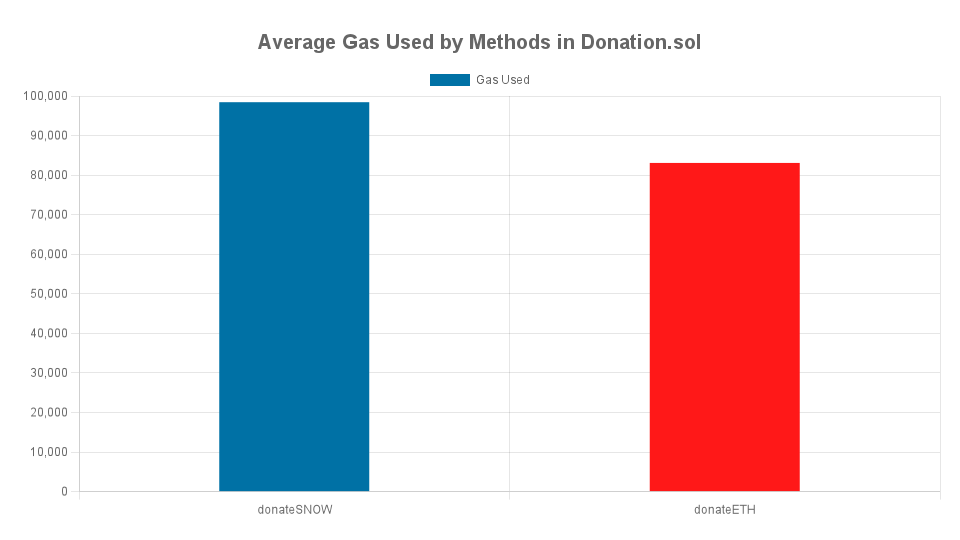
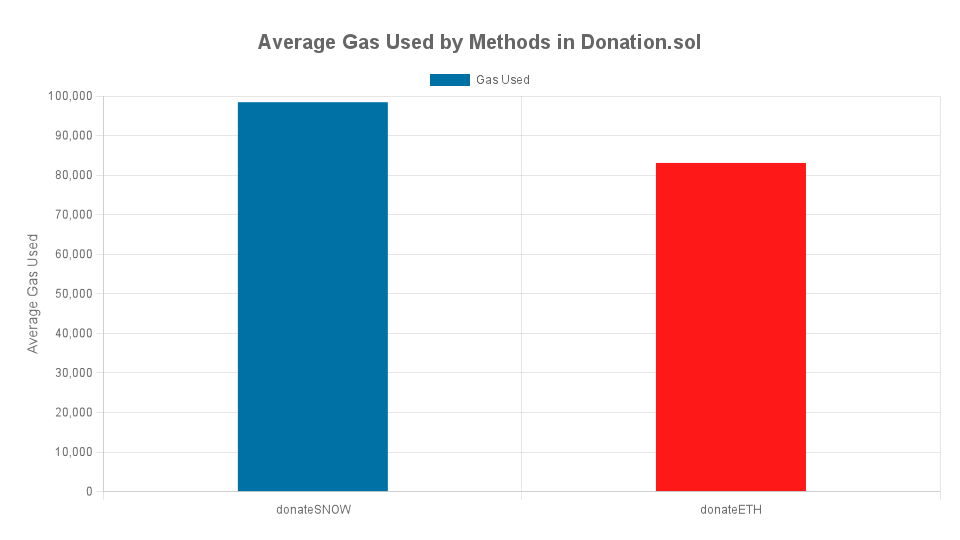
Dynamic gas analysis outputs

diff --git a/gas-output/plot-charts.js b/gas-output/plot-charts.js
@@ -1,51 +1,108 @@
 const chart = require("./render-chart");
-const { result } = require("./gas-report");
+const fs = require("fs");
+const path = require("path");
 
-const { methods, deployments } = result;
+let actualRes;
+let token;
+const tokens = ["ETH", "BNB", "MATIC"];
+const sliced = process.argv.slice(2);
+const inputIdx = sliced.indexOf("--token");
+const isCost = sliced.includes("--cost");
+if (inputIdx < 0 || !isCost) {
+  const { result } = require("./gas-report");
+  actualRes = result;
+} else {
+  token = sliced[inputIdx + 1];
+  if (token == "-a") {
+    actualRes = tokens.map((t) => {
+      return JSON.parse(
+        fs.readFileSync(
+          path.resolve(__dirname, `formatted-gas-output-token-${t}.json`),
+          "utf8"
+        )
+      );
+    });
+  } else {
+    actualRes = [
+      JSON.parse(
+        fs.readFileSync(
+          path.resolve(__dirname, `formatted-gas-output-token-${token}.json`),
+          "utf8"
+        )
+      ),
+    ];
+  }
+}
 
-const formatDataset = (contract, dataObject, isDeployment) => {
-  const title =
-    !contract && isDeployment
-      ? "Gas Used for Smart Contract Deployments"
-      : `Average Gas Used by Methods in ${contract}.sol`;
-  const labels = dataObject.map((obj) =>
-    isDeployment ? obj.name : obj.method
-  );
-  const data = dataObject.map((obj) => obj.Avg);
-  return { title, labels, data };
-};
-
-const colorMaps = {
-  2: ["#0071a5", "#ff1818"],
-  3: ["#05469f", "#df3381", "#ff9400"],
-  6: ["#003f5c", "#444e86", "#955196", "#dd5182", "#ff6e54", "#ffa600"],
-};
-
-const datasetGen = (data) => {
-  return [
-    {
-      label: "Gas Used",
-      backgroundColor: colorMaps[data.length],
-      borderWidth: 0,
-      data: data,
+async function plot(res) {
+  const { config, methods, deployments } = res;
+  const scales = {
+    y: {
+      position: "left",
+      ticks: {
+        beginAtZero: true,
+      },
+      title: {
+        display: true,
+        text: isCost ? "Average Transaction Cost (USD)" : "Average Gas Used",
+        font: {
+          size: 14,
+        },
+      },
     },
-  ];
-};
+  };
+  const formatDataset = (contract, dataObject, isDeployment) => {
+    const title =
+      !contract && isDeployment
+        ? isCost
+          ? `Cost for Smart Contract Deployment, ${config.token} Price: ${config.ethPrice}, Gas Price: ${config.gasPrice}`
+          : "Gas Used for Smart Contract Deployments"
+        : isCost
+        ? `Average Cost Per Method Transaction in ${contract}.sol, Token: ${config.token}`
+        : `Average Gas Used by Methods in ${contract}.sol`;
+    const labels = dataObject.map((obj) =>
+      isDeployment ? obj.name : obj.method
+    );
+    const data = dataObject.map((obj) => (isCost ? obj.avgPrice : obj.Avg));
+    return { title, labels, data };
+  };
 
-const methodsConfigs = Object.entries(methods).map((obj) => {
-  const { title, labels, data } = formatDataset(obj[0], obj[1]);
-  return chart.configuration(title, labels, datasetGen(data));
-});
+  const colorMaps = {
+    2: ["#0071a5", "#ff1818"],
+    3: ["#05469f", "#df3381", "#ff9400"],
+    6: ["#003f5c", "#444e86", "#955196", "#dd5182", "#ff6e54", "#ffa600"],
+  };
 
-const deploymentsConfig = (() => {
-  const { title, labels, data } = formatDataset(null, deployments, true);
-  return chart.configuration(title, labels, datasetGen(data));
-})();
+  const datasetGen = (data) => {
+    return [
+      {
+        label: isCost ? `Cost ${config.currency}` : "Gas Used",
+        backgroundColor: colorMaps[data.length],
+        borderWidth: 0,
+        data: data,
+      },
+    ];
+  };
 
-const allConfigs = [deploymentsConfig, ...methodsConfigs];
+  const methodsConfigs = Object.entries(methods).map((obj) => {
+    const { title, labels, data } = formatDataset(obj[0], obj[1]);
+    return chart.configuration(title, labels, datasetGen(data), {
+      scales: scales,
+    });
+  });
 
-(async function () {
+  const deploymentsConfig = (() => {
+    const { title, labels, data } = formatDataset(null, deployments, true);
+    return chart.configuration(title, labels, datasetGen(data), {
+      scales: scales,
+    });
+  })();
+
+  const allConfigs = [deploymentsConfig, ...methodsConfigs];
+
   for (const config of allConfigs) {
     await chart.render(config);
   }
-})();
+}
+
+actualRes.map(plot);

diff --git a/gas-output/gas-report.js b/gas-output/gas-report.js
@@ -1,6 +1,8 @@
 const fs = require("fs");
 const path = require("path");
 
+const output = process.argv.includes("--output");
+
 const report = JSON.parse(
   fs.readFileSync(path.join(__dirname, "../gasReporterOutput.json"), "utf8")
 );
@@ -24,7 +26,15 @@ const calledMethods = Object.values(report.info.methods).filter(
 
 const gasPrice = result.config.gasPrice;
 const ethPrice = result.config.ethPrice;
-const pricePerEthToPerGwei = (price) => parseFloat(price / 1e9).toFixed(2);
+const pricePerEthToPerGwei = (price) => {
+  var res = 0;
+  var decimal = 2;
+  while (res == 0) {
+    res = parseFloat(price / 1e9).toFixed(decimal);
+    decimal++;
+  }
+  return res;
+};
 
 const deployments = report.info.deployments.map((deployment) => {
   return { name: deployment.name, gasData: deployment.gasData };
@@ -76,10 +86,14 @@ const groupedMethods = calculatedMethods.reduce((res, obj) => {
 result.methods = groupedMethods;
 result.deployments = calculatedDeployments;
 
-fs.writeFileSync(
-  path.join(__dirname, "./formatted-gas-output.json"),
-  JSON.stringify(result),
-  "utf8"
-);
-
+if (output) {
+  fs.writeFileSync(
+    path.join(
+      __dirname,
+      `./formatted-gas-output-token-${result.config.token}.json`
+    ),
+    JSON.stringify(result),
+    "utf8"
+  );
+}
 exports.result = result;

diff --git a/truffle-config.js b/truffle-config.js
@@ -1,5 +1,16 @@
 const path = require("path");
 require("dotenv").config();
+
+const tokenArgIdx = process.argv.indexOf("--token");
+const token = tokenArgIdx > 0 ? process.argv[tokenArgIdx + 1] : "ETH";
+const priceApi = {
+  ETH: "https://api.etherscan.io/api?module=proxy&action=eth_gasPrice",
+  BNB: "https://api.bscscan.com/api?module=proxy&action=eth_gasPrice",
+  MATIC: "https://api.polygonscan.com/api?module=proxy&action=eth_gasPrice",
+  AVAX: "https://api.snowtrace.io/api?module=proxy&action=eth_gasPrice",
+  HT: "https://api.hecoinfo.com/api?module=proxy&action=eth_gasPrice",
+  MOVR: "https://api-moonriver.moonscan.io/api?module=proxy&action=eth_gasPrice",
+};
 /**
  * Use this file to configure your truffle project. It's seeded with some
  * common settings for different networks and features like migrations,
@@ -51,8 +62,10 @@ module.exports = {
     reporter: "eth-gas-reporter",
     reporterOptions: {
       currency: "USD",
+      token: token,
+      gasPriceApi: priceApi[token],
       coinmarketcap: process.env.COINMARKETCAP_API_KEY,
-      outputFile: "./gas-output/gas-output.txt",
+      outputFile: `./gas-output/gas-output-${token}.txt`,
       noColors: true,
       excludeContracts: ["Migrations", "Pet"],
     },

diff --git a/gas-output/render-chart.js b/gas-output/render-chart.js
@@ -18,14 +18,18 @@ module.exports = {
     fs.writeFileSync(
       __dirname +
         "\\plot\\" +
-        title.toLowerCase().replaceAll(" ", "-") +
+        title
+          .toLowerCase()
+          .replaceAll(" ", "-")
+          .replaceAll(":", "")
+          .replaceAll(",", "") +
         ".png",
       imageBuffer,
       { flag: "w" }
     );
   },
 
-  configuration: (title, labels, datasets) => {
+  configuration: (title, labels, datasets, extraOptions) => {
     return {
       type: "bar",
       data: {
@@ -49,6 +53,7 @@ module.exports = {
             },
           },
         },
+        ...extraOptions,
       },
       plugins: [
         {
